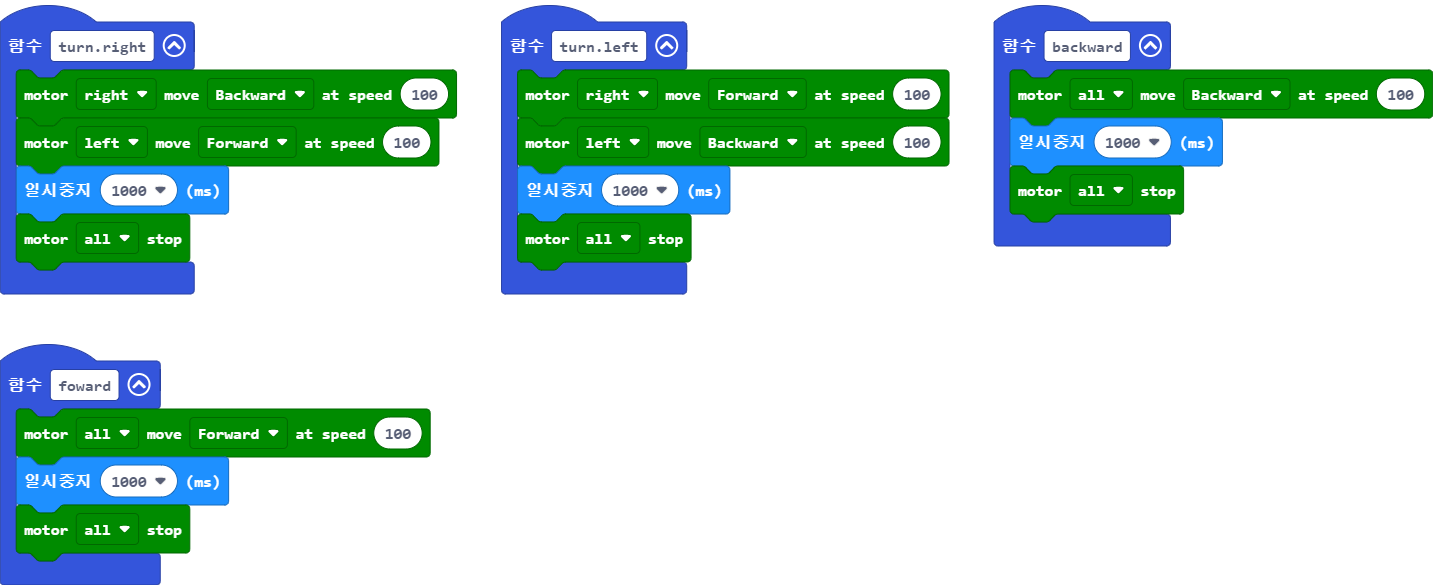
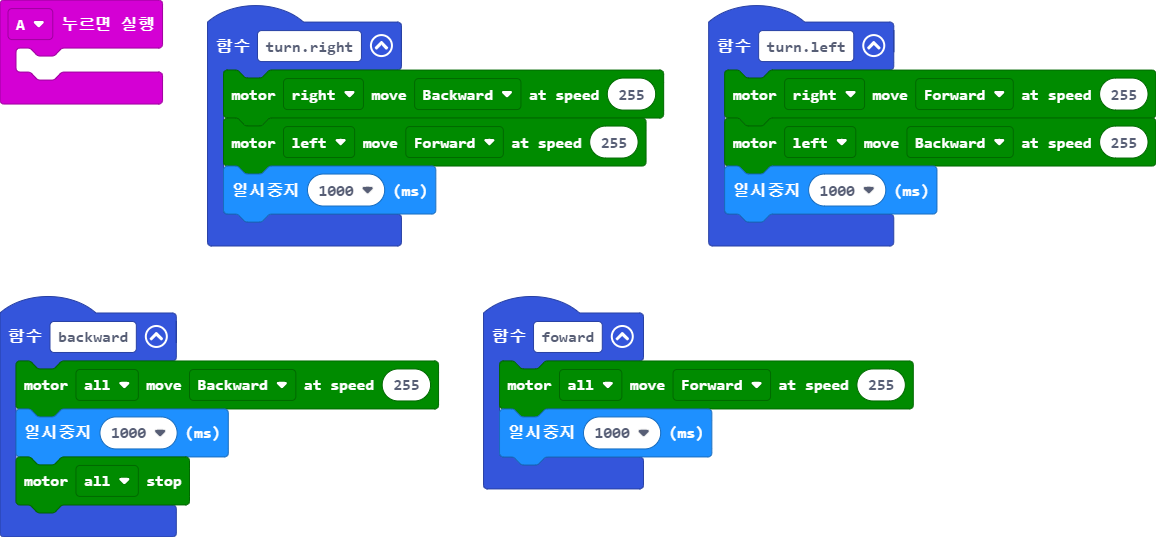
main.blocks, main.ts 업데이트하기

diff --git a/main.ts b/main.ts
@@ -1,22 +1,22 @@
 function turnleft () {
-    maqueen.motorRun(maqueen.Motors.M2, maqueen.Dir.CW, 100)
-    maqueen.motorRun(maqueen.Motors.M1, maqueen.Dir.CCW, 100)
+    maqueen.motorRun(maqueen.Motors.M2, maqueen.Dir.CW, 255)
+    maqueen.motorRun(maqueen.Motors.M1, maqueen.Dir.CCW, 255)
     basic.pause(1000)
-    maqueen.motorStop(maqueen.Motors.All)
 }
+input.onButtonPressed(Button.A, function () {
+	
+})
 function backward () {
-    maqueen.motorRun(maqueen.Motors.All, maqueen.Dir.CCW, 100)
+    maqueen.motorRun(maqueen.Motors.All, maqueen.Dir.CCW, 255)
     basic.pause(1000)
     maqueen.motorStop(maqueen.Motors.All)
 }
 function turnright () {
-    maqueen.motorRun(maqueen.Motors.M2, maqueen.Dir.CCW, 100)
-    maqueen.motorRun(maqueen.Motors.M1, maqueen.Dir.CW, 100)
+    maqueen.motorRun(maqueen.Motors.M2, maqueen.Dir.CCW, 255)
+    maqueen.motorRun(maqueen.Motors.M1, maqueen.Dir.CW, 255)
     basic.pause(1000)
-    maqueen.motorStop(maqueen.Motors.All)
 }
 function foward () {
-    maqueen.motorRun(maqueen.Motors.All, maqueen.Dir.CW, 100)
+    maqueen.motorRun(maqueen.Motors.All, maqueen.Dir.CW, 255)
     basic.pause(1000)
-    maqueen.motorStop(maqueen.Motors.All)
 }
